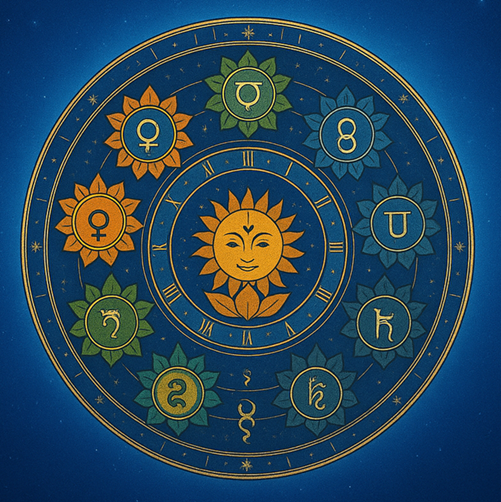
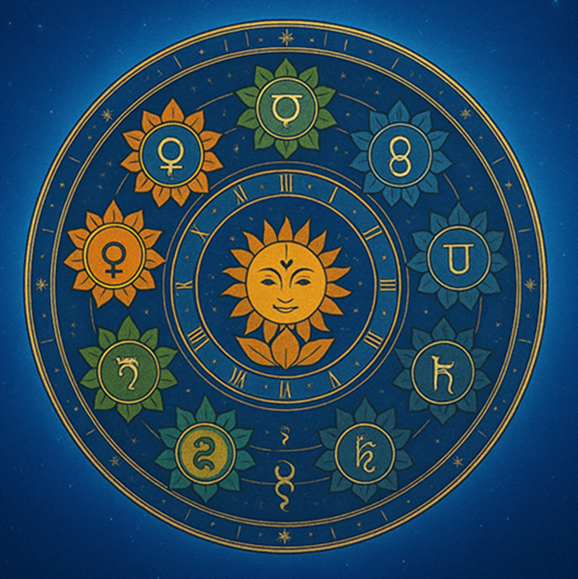
Text position in carousel

diff --git a/src/components/KarmaKingdomsShowcase.tsx b/src/components/KarmaKingdomsShowcase.tsx
@@ -45,10 +45,10 @@ const KarmaKingdomsShowcase = () => {
       <section className="relative w-screen h-screen overflow-hidden">
 
         {/* 🧿 Title on Top */}
-        <div className="absolute top-20 w-full flex justify-center z-[100]">
+        <div className="absolute top-16 w-full flex justify-center z-[100]">
           <div className="backdrop-blur-xl bg-white/10 border border-white/25 px-10 py-2 rounded-3xl shadow-[0_0_30px_rgba(255,255,255,0.25)]">
             <h1 className="text-white text-3xl sm:text-4xl md:text-5xl font-inter tracking-normal">
-              <span>Karmic <span className="text-orange-400">Wisdom</span></span>
+              <span>Karmic Wisdom</span>
               <span className="text-red-500">.</span>
               <span> Simplified</span>
               <span className="text-red-500">.</span>
@@ -77,7 +77,7 @@ const KarmaKingdomsShowcase = () => {
               </div>
 
                 {/* Overlay title */}
-                <div className="absolute inset-0 flex items-end justify-center pb-36">
+                <div className="absolute inset-0 flex items-end justify-center pb-16">
                   <div className="backdrop-blur-xl bg-white/10 border border-white/25 px-10 py-2 rounded-3xl shadow-[0_0_40px_rgba(255,255,255,0.25)]">
                     <h3 className="text-white text-4xl md:text-5xl font-bold tracking-wide text-center">
                       {item.title}
